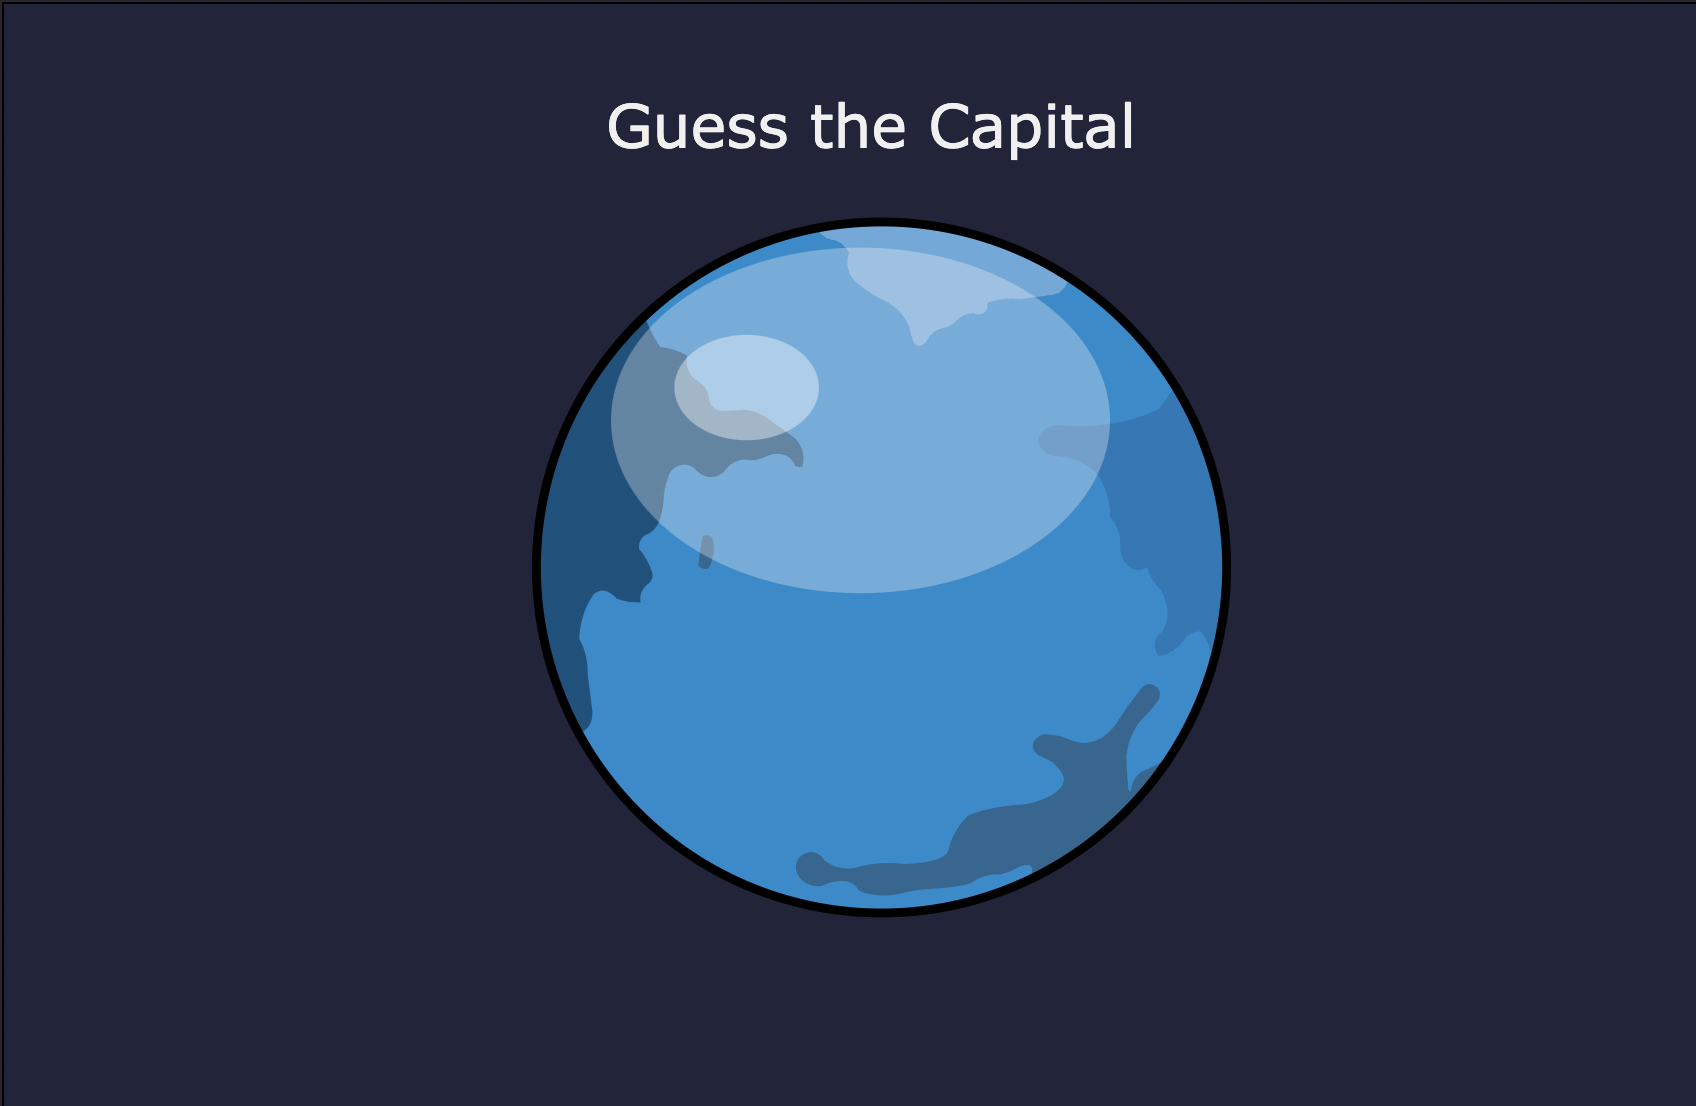
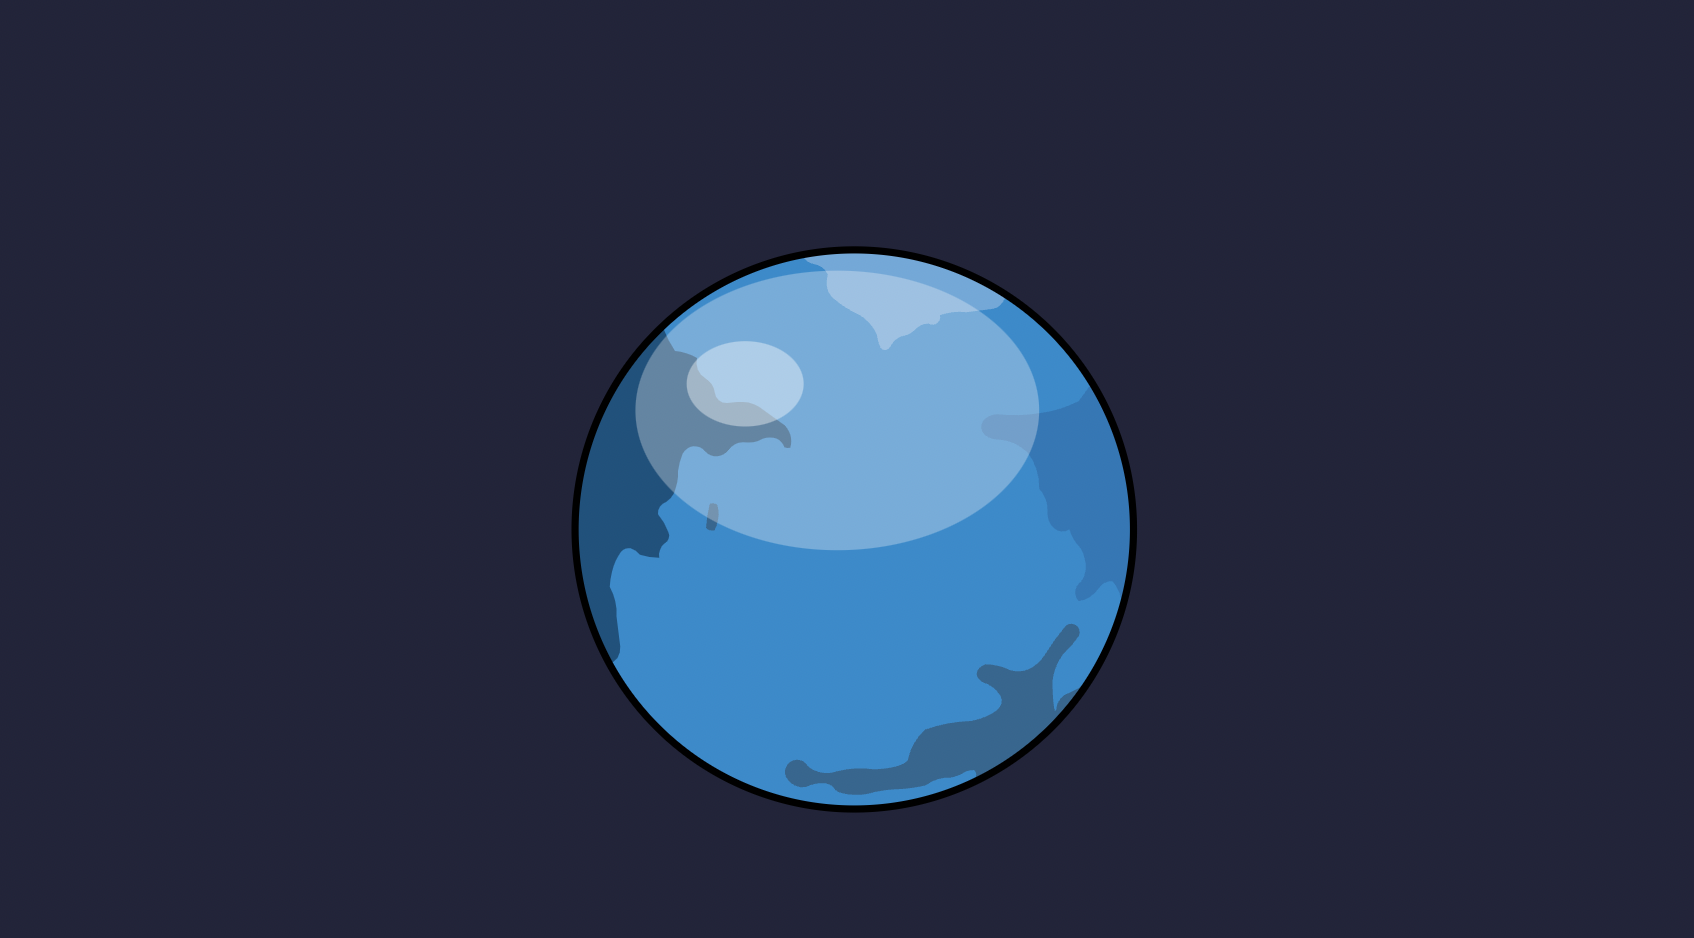
Added the title label and made the image background

Changed region(s): [[0.307, 0.1855, 0.7367, 0.8657], [0.3377, 0.0928, 0.6753, 0.1546], [0.0, 0.0, 0.0307, 0.0309]]

diff --git a/main.py b/main.py
@@ -1,19 +1,24 @@
 from tkinter import *
 import tkinter as tk
 
+
 #create object
-master = tk.Tk()
+root = Tk()
+root.title('Guess the Captial')
+root.geometry("1000x1000")
 
+#define Image
+bg = PhotoImage(file="image.png")
 
+# create a label
+my_label = Label(root, image=bg)
+my_label.place(x=0, y=4, relwidth=1, relheight=1)
 
+#Add something to the top of our image
+my_text = Label(root, text="Guess The Captial", font=("Helvetica", 50), fg="white", bg='#21243B')
+my_text.pack(pady=50)
 
-#add image file
-bgimg = tk.PhotoImage(file= "image.png")
-
-
-limg= Label(master, i=bgimg)
-limg.pack()
 
 #execute tkinter
-master.mainloop()
+root.mainloop()
 
